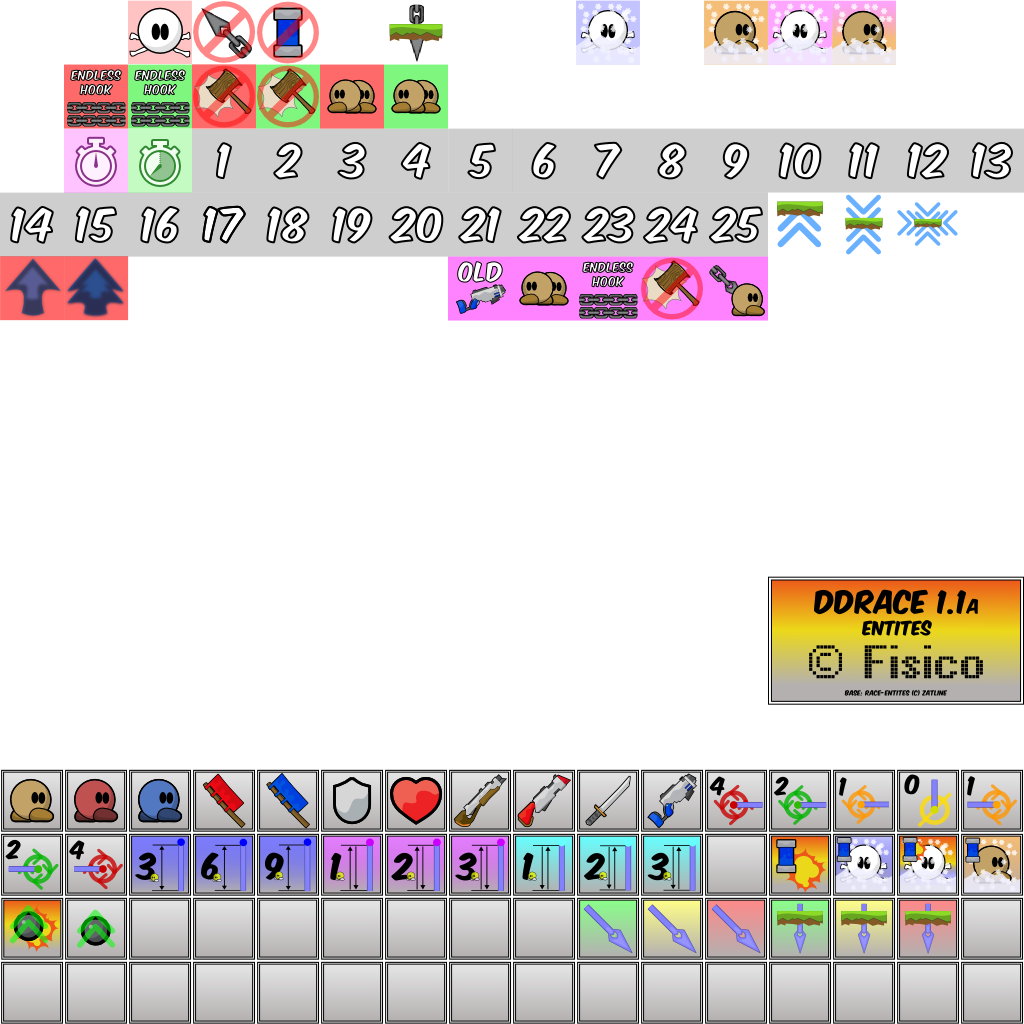
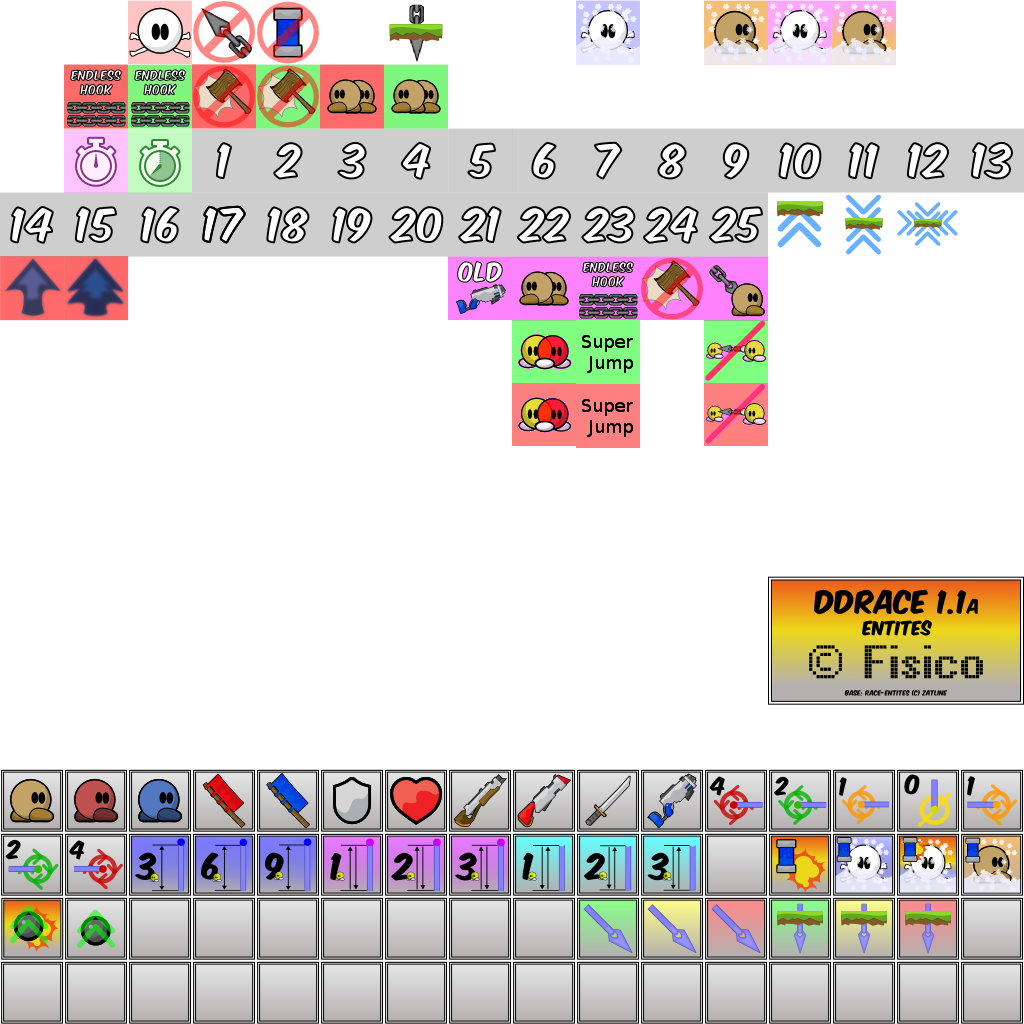
Add entities to start and stop: Player collisions, Hooking, Infinite jump

Changed region(s): [[0.5, 0.3125, 0.625, 0.4375], [0.6875, 0.3125, 0.75, 0.4375]]

diff --git a/src/game/server/entities/character.cpp b/src/game/server/entities/character.cpp
@@ -1316,10 +1316,40 @@ void CCharacter::HandleTiles(int Index)
 		GameServer()->SendChatTarget(GetPlayer()->GetCID(), "You can hit others");
 		m_Hit = HIT_ALL;
 	}
+	else if(((m_TileIndex == TILE_NPC_START) || (m_TileFIndex == TILE_NPC_START)) && !m_Core.m_Collision)
+	{
+		GameServer()->SendChatTarget(GetPlayer()->GetCID(),"You can collide with others");
+		m_Core.m_Collision = true;
+	}
+	else if(((m_TileIndex == TILE_SUPER_START) || (m_TileFIndex == TILE_SUPER_START)) && !m_SuperJump)
+	{
+		GameServer()->SendChatTarget(GetPlayer()->GetCID(),"You have infinite air jumps");
+		m_SuperJump = true;
+	}
+	else if(((m_TileIndex == TILE_NPH_START) || (m_TileFIndex == TILE_NPH_START)) && !m_Core.m_Hook)
+	{
+		GameServer()->SendChatTarget(GetPlayer()->GetCID(),"You can hook others");
+		m_Core.m_Hook = true;
+	}
 	else if(((m_TileIndex == TILE_HIT_END) || (m_TileFIndex == TILE_HIT_END)) && m_Hit != (DISABLE_HIT_GRENADE|DISABLE_HIT_HAMMER|DISABLE_HIT_RIFLE|DISABLE_HIT_SHOTGUN))
 	{
 		GameServer()->SendChatTarget(GetPlayer()->GetCID(), "You can't hit others");
 		m_Hit = DISABLE_HIT_GRENADE|DISABLE_HIT_HAMMER|DISABLE_HIT_RIFLE|DISABLE_HIT_SHOTGUN;
+	}
+	else if(((m_TileIndex == TILE_NPC_END) || (m_TileFIndex == TILE_NPC_END)) && m_Core.m_Collision)
+	{
+		GameServer()->SendChatTarget(GetPlayer()->GetCID(), "You can't collide with others");
+		m_Core.m_Collision = false;
+	}
+	else if(((m_TileIndex == TILE_SUPER_END) || (m_TileFIndex == TILE_SUPER_END)) && m_SuperJump)
+	{
+		GameServer()->SendChatTarget(GetPlayer()->GetCID(), "You don't have infinite air jumps");
+		m_SuperJump = false;
+	}
+	else if(((m_TileIndex == TILE_NPH_END) || (m_TileFIndex == TILE_NPH_END)) && m_Core.m_Hook)
+	{
+		GameServer()->SendChatTarget(GetPlayer()->GetCID(), "You can't hook others");
+		m_Core.m_Hook = false;
 	}
 	if(((m_TileIndex == TILE_SOLO_START) || (m_TileFIndex == TILE_SOLO_START)) && !Teams()->m_Core.GetSolo(m_pPlayer->GetCID()))
 	{
@@ -1333,7 +1363,7 @@ void CCharacter::HandleTiles(int Index)
 	}
 	if(((m_TileIndex == TILE_STOP && m_TileFlags == ROTATION_270) || (m_TileIndexL == TILE_STOP && m_TileFlagsL == ROTATION_270) || (m_TileIndexL == TILE_STOPS && (m_TileFlagsL == ROTATION_90 || m_TileFlagsL ==ROTATION_270)) || (m_TileIndexL == TILE_STOPA) || (m_TileFIndex == TILE_STOP && m_TileFFlags == ROTATION_270) || (m_TileFIndexL == TILE_STOP && m_TileFFlagsL == ROTATION_270) || (m_TileFIndexL == TILE_STOPS && (m_TileFFlagsL == ROTATION_90 || m_TileFFlagsL == ROTATION_270)) || (m_TileFIndexL == TILE_STOPA) || (m_TileSIndex == TILE_STOP && m_TileSFlags == ROTATION_270) || (m_TileSIndexL == TILE_STOP && m_TileSFlagsL == ROTATION_270) || (m_TileSIndexL == TILE_STOPS && (m_TileSFlagsL == ROTATION_90 || m_TileSFlagsL == ROTATION_270)) || (m_TileSIndexL == TILE_STOPA)) && m_Core.m_Vel.x > 0)
 	{
-		if((int)GameServer()->Collision()->GetPos(MapIndexL).x)
+		
 			if((int)GameServer()->Collision()->GetPos(MapIndexL).x < (int)m_Core.m_Pos.x)
 				m_Core.m_Pos = m_PrevPos;
 		m_Core.m_Vel.x = 0;
@@ -1543,7 +1573,7 @@ void CCharacter::DDRacePostCoreTick()
 		if (m_DeepFreeze && !m_Super)
 			Freeze();
 
-		if (m_Super && m_Core.m_Jumped > 1)
+		if ((m_Super || m_SuperJump) && m_Core.m_Jumped > 1)
 			m_Core.m_Jumped = 1;
 
 		int CurrentIndex = GameServer()->Collision()->GetMapIndex(m_Pos);
@@ -1653,4 +1683,7 @@ void CCharacter::DDRaceInit()
 	m_TeleCheckpoint = 0;
 	m_EndlessHook = g_Config.m_SvEndlessDrag;
 	m_Hit = g_Config.m_SvHit ? HIT_ALL : DISABLE_HIT_GRENADE|DISABLE_HIT_HAMMER|DISABLE_HIT_RIFLE|DISABLE_HIT_SHOTGUN;
+	m_Core.m_Collision = true;
+	m_Core.m_Hook = true;
+	m_SuperJump = false;
 }

diff --git a/src/game/collision.cpp b/src/game/collision.cpp
@@ -75,7 +75,7 @@ void CCollision::Init(class CLayers *pLayers)
 
 			Index = m_pSwitch[i].m_Type;
 
-			if(Index <= TILE_NPH)
+			if(Index <= TILE_NPH_END)
 			{
 				if(Index >= TILE_FREEZE && Index <= TILE_SWITCHCLOSE)
 					m_pSwitch[i].m_Type = Index;
@@ -87,7 +87,7 @@ void CCollision::Init(class CLayers *pLayers)
 		{
 			Index = m_pFront[i].m_Index;
 
-			if(Index <= TILE_NPH)
+			if(Index <= TILE_NPH_END)
 			{
 				switch(Index)
 				{
@@ -108,12 +108,12 @@ void CCollision::Init(class CLayers *pLayers)
 				}
 
 				// DDRace tiles
-				if(Index == TILE_THROUGH || (Index >= TILE_FREEZE && Index <= TILE_UNFREEZE) || (Index >= TILE_SWITCHOPEN && Index <= TILE_TELECHECKIN) || (Index >= TILE_BEGIN && Index <= TILE_STOPA) || Index == TILE_CP || Index == TILE_CP_F || (Index >= TILE_OLDLASER && Index <= TILE_NPH) || (Index >= TILE_EHOOK_START && Index <= TILE_SOLO_END) || (Index >= TILE_DFREEZE && Index <= TILE_DUNFREEZE))
+				if(Index == TILE_THROUGH || (Index >= TILE_FREEZE && Index <= TILE_UNFREEZE) || (Index >= TILE_SWITCHOPEN && Index <= TILE_TELECHECKIN) || (Index >= TILE_BEGIN && Index <= TILE_STOPA) || Index == TILE_CP || Index == TILE_CP_F || (Index >= TILE_OLDLASER && Index <= TILE_NPH_END) || (Index >= TILE_EHOOK_START && Index <= TILE_SOLO_END) || (Index >= TILE_DFREEZE && Index <= TILE_DUNFREEZE))
 					m_pFront[i].m_Index = Index;
 			}
 		}
 		Index = m_pTiles[i].m_Index;
-		if(Index <= TILE_NPH)
+		if(Index <= TILE_NPH_END)
 		{
 			switch(Index)
 			{
@@ -134,7 +134,7 @@ void CCollision::Init(class CLayers *pLayers)
 			}
 
 			// DDRace tiles
-			if(Index == TILE_THROUGH || (Index >= TILE_FREEZE && Index <= TILE_UNFREEZE) || (Index >= TILE_SWITCHOPEN && Index <= TILE_TELECHECKIN) || (Index >= TILE_BEGIN && Index <= TILE_STOPA) || Index == TILE_CP || Index == TILE_CP_F || (Index >= TILE_OLDLASER && Index <= TILE_NPH) || (Index >= TILE_EHOOK_START && Index <= TILE_SOLO_END) || (Index >= TILE_DFREEZE && Index <= TILE_DUNFREEZE))
+			if(Index == TILE_THROUGH || (Index >= TILE_FREEZE && Index <= TILE_UNFREEZE) || (Index >= TILE_SWITCHOPEN && Index <= TILE_TELECHECKIN) || (Index >= TILE_BEGIN && Index <= TILE_STOPA) || Index == TILE_CP || Index == TILE_CP_F || (Index >= TILE_OLDLASER && Index <= TILE_NPH_END) || (Index >= TILE_EHOOK_START && Index <= TILE_SOLO_END) || (Index >= TILE_DFREEZE && Index <= TILE_DUNFREEZE))
 				m_pTiles[i].m_Index = Index;
 		}
 	}
@@ -588,9 +588,9 @@ bool CCollision::TileExists(int Index)
 	if(Index < 0)
 		return false;
 
-	if(m_pTiles[Index].m_Index >= TILE_FREEZE && m_pTiles[Index].m_Index <= TILE_NPH)
+	if(m_pTiles[Index].m_Index >= TILE_FREEZE && m_pTiles[Index].m_Index <= TILE_NPH_END)
 		return true;
-	if(m_pFront && m_pFront[Index].m_Index >= TILE_FREEZE && m_pFront[Index].m_Index  <= TILE_NPH)
+	if(m_pFront && m_pFront[Index].m_Index >= TILE_FREEZE && m_pFront[Index].m_Index  <= TILE_NPH_END)
 		return true;
 	if(m_pTele && (m_pTele[Index].m_Type == TILE_TELEIN || m_pTele[Index].m_Type == TILE_TELEINEVIL || m_pTele[Index].m_Type == TILE_TELECHECK || m_pTele[Index].m_Type == TILE_TELECHECKIN))
 		return true;

diff --git a/src/game/gamecore.cpp b/src/game/gamecore.cpp
@@ -273,7 +273,7 @@ void CCharacterCore::Tick(bool UseInput)
 		}
 
 		// Check against other players first
-		if(m_pWorld && m_pWorld->m_Tuning.m_PlayerHooking)
+		if(this->m_Hook && m_pWorld && m_pWorld->m_Tuning.m_PlayerHooking)
 		{
 			float Distance = 0.0f;
 			for(int i = 0; i < MAX_CLIENTS; i++)
@@ -399,7 +399,7 @@ void CCharacterCore::Tick(bool UseInput)
 			// handle player <-> player collision
 			float Distance = distance(m_Pos, pCharCore->m_Pos);
 			vec2 Dir = normalize(m_Pos - pCharCore->m_Pos);
-			if(m_pWorld->m_Tuning.m_PlayerCollision && Distance < PhysSize*1.25f && Distance > 0.0f)
+			if(pCharCore->m_Collision && this->m_Collision && m_pWorld->m_Tuning.m_PlayerCollision && Distance < PhysSize*1.25f && Distance > 0.0f)
 			{
 				float a = (PhysSize*1.45f - Distance);
 				float Velocity = 0.5f;
@@ -414,7 +414,7 @@ void CCharacterCore::Tick(bool UseInput)
 			}
 
 			// handle hook influence
-			if(m_HookedPlayer == i && m_pWorld->m_Tuning.m_PlayerHooking)
+			if(m_Hook && m_HookedPlayer == i && m_pWorld->m_Tuning.m_PlayerHooking)
 			{
 				if(Distance > PhysSize*1.50f) // TODO: fix tweakable variable
 				{
@@ -473,7 +473,7 @@ void CCharacterCore::Move()
 
 	m_Vel.x = m_Vel.x*(1.0f/RampValue);
 
-	if(m_pWorld && m_pWorld->m_Tuning.m_PlayerCollision)
+	if(m_pWorld && m_pWorld->m_Tuning.m_PlayerCollision && this->m_Collision)
 	{
 		// check player collision
 		float Distance = distance(m_Pos, NewPos);
@@ -486,7 +486,7 @@ void CCharacterCore::Move()
 			for(int p = 0; p < MAX_CLIENTS; p++)
 			{
 				CCharacterCore *pCharCore = m_pWorld->m_apCharacters[p];
-				if(!pCharCore || pCharCore == this || (m_Id != -1 && !m_pTeams->CanCollide(m_Id, p)))
+				if(!pCharCore || pCharCore == this || (m_Id != -1 && !m_pTeams->CanCollide(m_Id, p)) || !pCharCore->m_Collision)
 					continue;
 				float D = distance(Pos, pCharCore->m_Pos);
 				if(D < 28.0f && D > 0.0f)

diff --git a/src/engine/shared/config_variables.h b/src/engine/shared/config_variables.h
@@ -175,7 +175,7 @@ MACRO_CONFIG_STR(SvRulesLine9, sv_rules_line9, 40, "", CFGFLAG_SERVER, "Rules li
 MACRO_CONFIG_STR(SvRulesLine10, sv_rules_line10, 40, "", CFGFLAG_SERVER, "Rules line 10")
 
 MACRO_CONFIG_INT(SvTeam, sv_team, 1, 0, 2, CFGFLAG_SERVER, "Teams configuration (0 = off, 1 = on but optional, 2 = must play only with teams)")
-MACRO_CONFIG_INT(SvTeamMaxSize, sv_team_max_size, 16, 2, 16, CFGFLAG_SERVER, "Maximum team size (from 2 to 16)")
+MACRO_CONFIG_INT(SvTeamMaxSize, sv_max_team_size, 16, 2, 16, CFGFLAG_SERVER, "Maximum team size (from 2 to 16)")
 
 MACRO_CONFIG_STR(SvAnnouncementFileName, sv_announcement_filename, 24, "announcement.txt", CFGFLAG_SERVER, "file which will have the announcement, each one at a line")
 MACRO_CONFIG_INT(SvAnnouncementInterval, sv_announcement_interval, 300, 1, 9999, CFGFLAG_SERVER, "time(minutes) in which the announcement will be displayed from the announcement file")

diff --git a/src/game/mapitems.h b/src/game/mapitems.h
@@ -126,7 +126,13 @@ enum
 	TILE_NPC,
 	TILE_EHOOK,
 	TILE_NOHIT,
-	TILE_NPH,//Remember to change this in collision.cpp if you add anymore tiles
+	TILE_NPH,
+	TILE_NPC_START = 88,
+	TILE_SUPER_START,
+	TILE_NPH_START = 91,
+	TILE_NPC_END = 104,
+	TILE_SUPER_END,
+	TILE_NPH_END = 107,//Remember to change this in collision.cpp if you add anymore tiles
 	//End of higher tiles
 	//Layers
 	LAYER_GAME=0,

diff --git a/src/game/server/entities/character.h b/src/game/server/entities/character.h
@@ -157,6 +157,7 @@ public:
 	bool CanCollide(int ClientID);
 	bool SameTeam(int ClientID);
 	bool m_Super;
+	bool m_SuperJump;
 	int m_TeamBeforeSuper;
 	int m_FreezeTime;
 	int m_FreezeTick;
@@ -171,6 +172,8 @@ public:
 		DISABLE_HIT_RIFLE=8
 	};
 	int m_Hit;
+	int m_Collision;
+	int m_Hook;
 	int m_PainSoundTimer;
 	int m_LastMove;
 	int m_StartTime;

diff --git a/src/game/gamecore.h b/src/game/gamecore.h
@@ -187,6 +187,8 @@ class CCharacterCore
 public:
 	vec2 m_Pos;
 	vec2 m_Vel;
+	bool m_Hook;
+	bool m_Collision;
 
 	vec2 m_HookPos;
 	vec2 m_HookDir;
